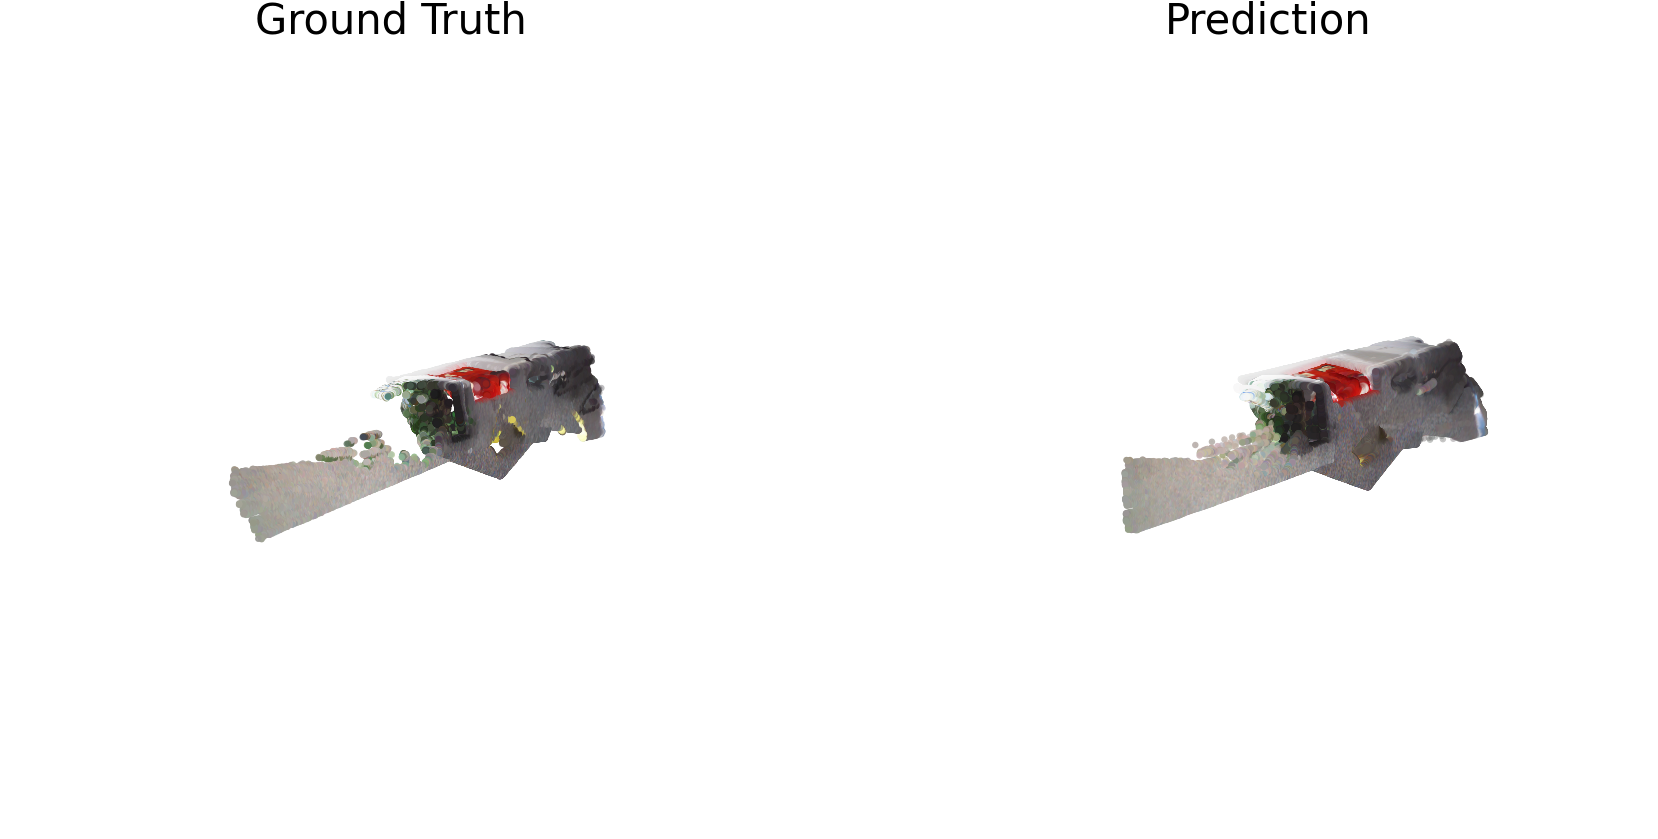
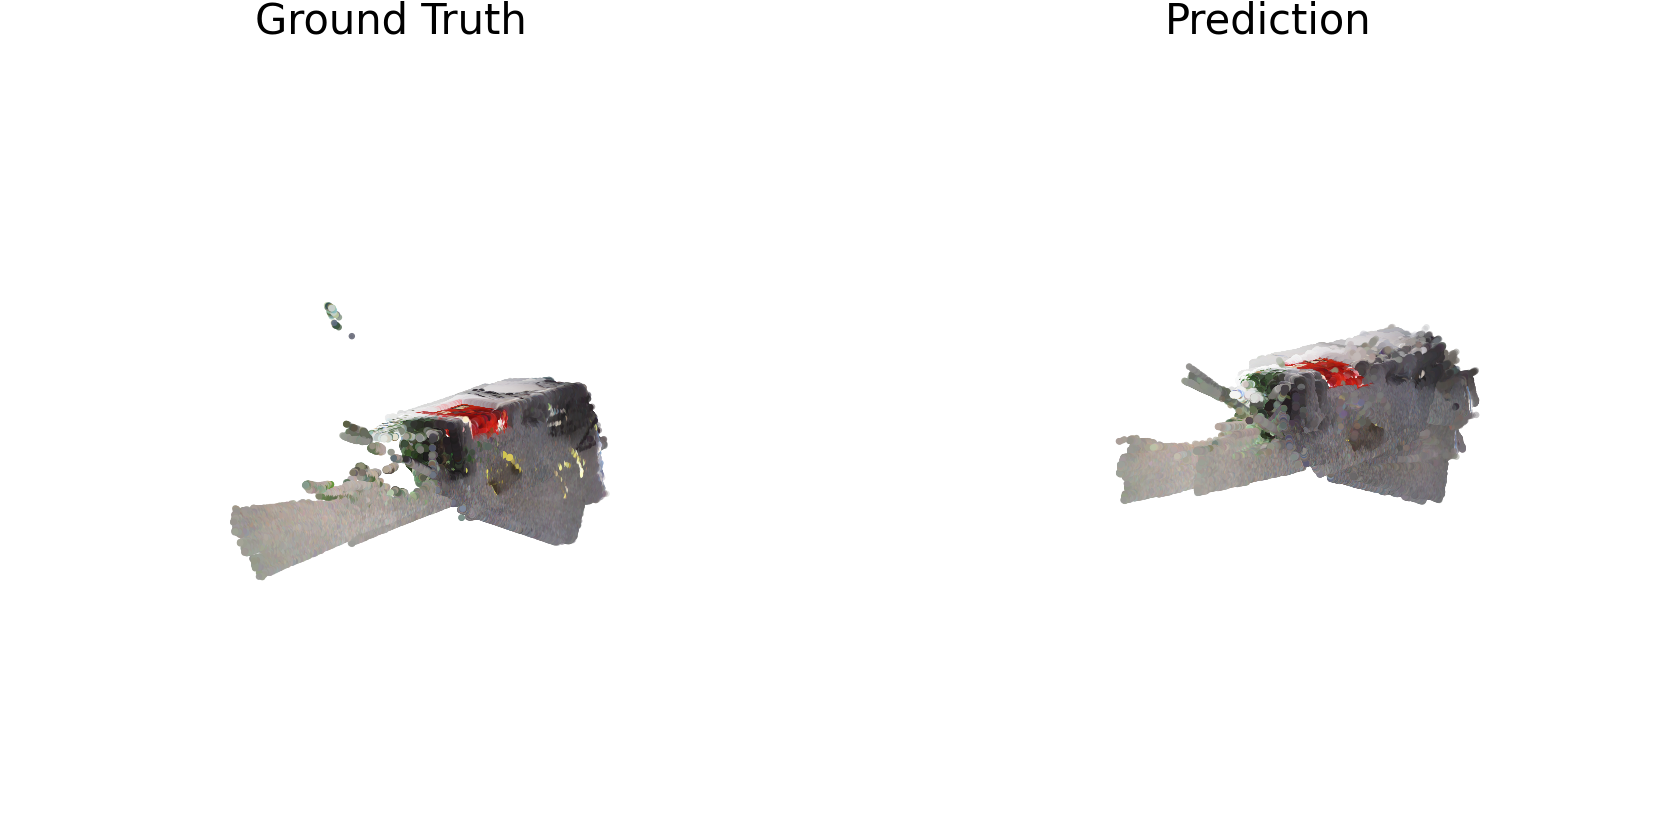
done with 7scenes-dense eval

Changed region(s): [[0.123, 0.4029, 0.3691, 0.6818], [0.6767, 0.3719, 0.9228, 0.6508], [0.1846, 0.3719, 0.2153, 0.4029]]

diff --git a/point_cloud_visualization.py b/point_cloud_visualization.py
@@ -26,7 +26,7 @@ def render_pcd(ax, ply_path, point_size=0.3, elev=20, azim=45):
     ax.set_axis_off()
 
 if __name__ == "__main__":
-    MODE = 'sparse'  # 'dense' or 'sparse'
+    MODE = 'dense'  # 'dense' or 'sparse'
 
     pred_path = f"outputs/mv_recon/7scenes-{MODE}/fire-seq-04-pred.ply"
     gt_path = f"outputs/mv_recon/7scenes-{MODE}/fire-seq-04-gt.ply"
